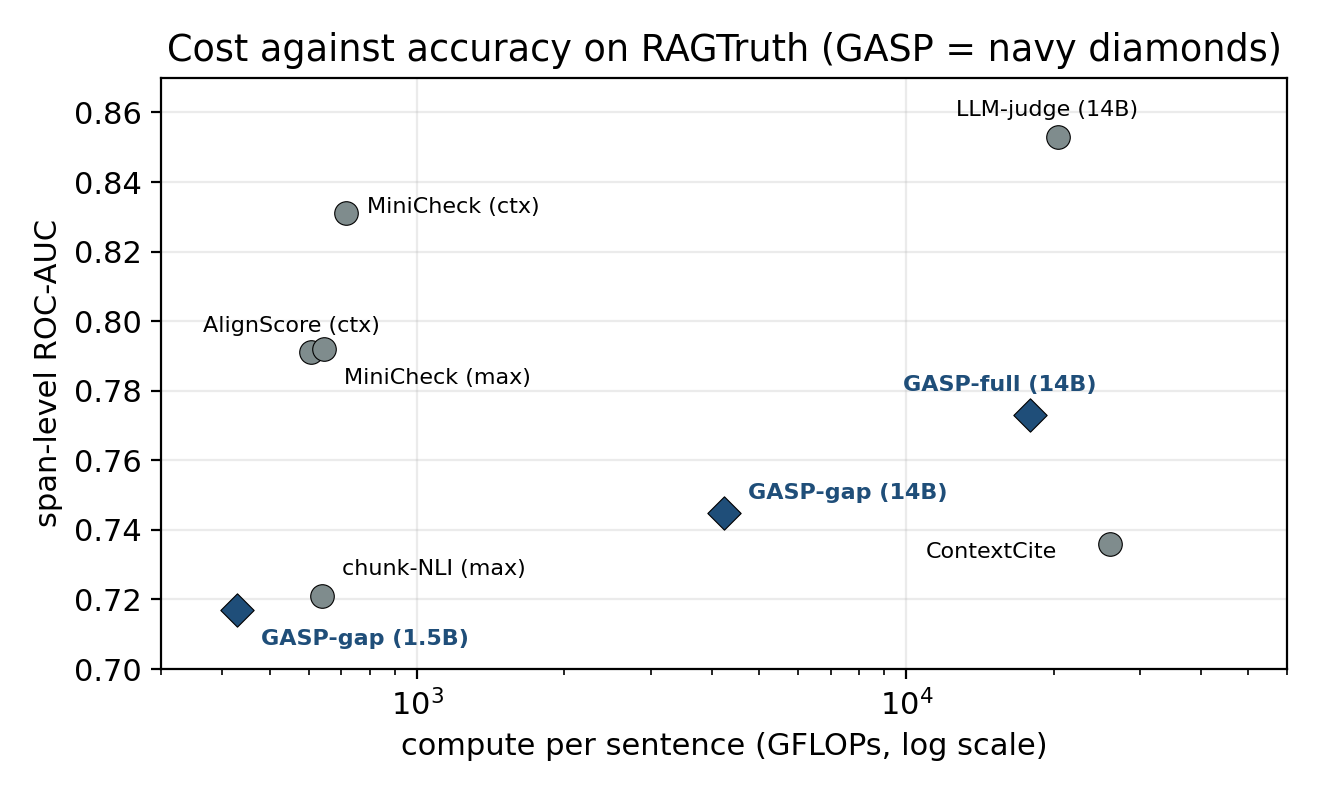
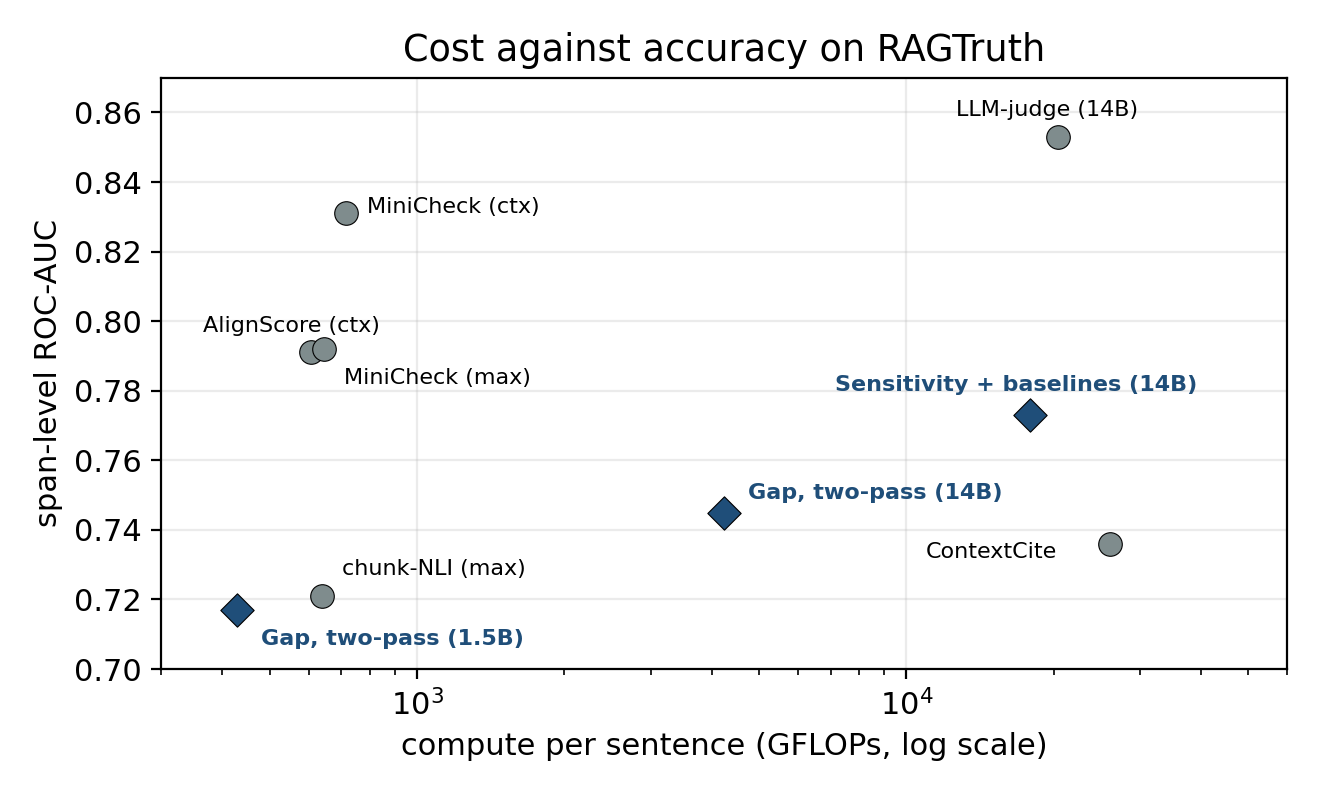
Use descriptive method labels in the cost and transfer figures

diff --git a/pipeline/make_paper_figures.py b/pipeline/make_paper_figures.py
@@ -5,7 +5,7 @@ Generate the paper figures into results/figures/.
 Four figures on RAGTruth with the 14B scorer:
   fig_feature_auc.png     single-feature span-level ROC-AUC of each grounding feature.
   fig_grounding_dist.png  distribution of the max leave-one-out drop, grounded vs unsupported.
-  fig_transfer.png        span-level GASP+base AUC across the three benchmarks.
+  fig_transfer.png        span-level AUC of Sensitivity + baselines across the three benchmarks.
   fig_cost_accuracy.png   compute (GFLOPs/sentence) vs span-level AUC per method.
 
 The distribution figure reads canon_results/<tag>/sentence.csv (produced by run_gasp.py);
@@ -29,18 +29,18 @@ plt.rcParams.update({"font.size": 11, "axes.grid": True, "grid.alpha": 0.25,
 FEATURES = [("gap", 0.745), ("top-2 drop", 0.711), ("max drop", 0.709), ("mean drop", 0.704),
             ("perplexity", 0.657), ("JSD no-ctx", 0.648), ("max JSD", 0.613)]
 GROUNDING = {"gap", "top-2 drop", "max drop", "mean drop", "JSD no-ctx", "max JSD"}
-# span-level GASP+base per benchmark
+# span-level AUC of Sensitivity + baselines per benchmark
 TRANSFER = [("RAGTruth", 0.773), ("TofuEval", 0.711), ("RAGBench", 0.634)]
-# (method, span-AUC, GFLOPs/sentence, is_gasp, label-dx-factor, label-dy)
+# (method, span-AUC, GFLOPs/sentence, is_sensitivity, label-dx-factor, label-dy)
 COST = [("chunk-NLI (max)", 0.721, 638, False, 1.10, +0.006),
         ("AlignScore (ctx)", 0.791, 608, False, 0.60, +0.006),
         ("MiniCheck (ctx)", 0.831, 717, False, 1.10, 0.0),
         ("MiniCheck (max)", 0.792, 645, False, 1.10, -0.010),
         ("LLM-judge (14B)", 0.853, 20376, False, 0.62, +0.006),
         ("ContextCite", 0.736, 26103, False, 0.42, -0.004),
-        ("GASP-gap (1.5B)", 0.717, 429, True, 1.12, -0.010),
-        ("GASP-gap (14B)", 0.745, 4236, True, 1.12, +0.004),
-        ("GASP-full (14B)", 0.773, 17897, True, 0.55, +0.007)]
+        ("Gap, two-pass (1.5B)", 0.717, 429, True, 1.12, -0.010),
+        ("Gap, two-pass (14B)", 0.745, 4236, True, 1.12, +0.004),
+        ("Sensitivity + baselines (14B)", 0.773, 17897, True, 0.40, +0.007)]
 
 
 def fig_feature_auc(out):
@@ -89,7 +89,7 @@ def fig_transfer(out):
         ax.text(xi, t[1] + 0.006, f"{t[1]:.3f}", ha="center", fontsize=10)
     ax.set_xticks(x); ax.set_xticklabels([t[0] for t in TRANSFER]); ax.set_ylim(0.5, 0.85)
     ax.axhline(0.5, color="k", lw=0.8, ls=":")
-    ax.set_ylabel("span-level ROC-AUC (GASP+base, 14B)")
+    ax.set_ylabel("span-level ROC-AUC\n(Sensitivity + baselines, 14B)")
     ax.set_title("Transfer across benchmarks")
     fig.tight_layout(); fig.savefig(os.path.join(out, "fig_transfer.png"), dpi=200); plt.close(fig)
 
@@ -104,7 +104,7 @@ def fig_cost_accuracy(out):
     ax.set_xscale("log"); ax.set_xlim(3e2, 6e4); ax.set_ylim(0.70, 0.87)
     ax.set_xlabel("compute per sentence (GFLOPs, log scale)")
     ax.set_ylabel("span-level ROC-AUC")
-    ax.set_title("Cost against accuracy on RAGTruth (GASP = navy diamonds)")
+    ax.set_title("Cost against accuracy on RAGTruth")
     fig.tight_layout(); fig.savefig(os.path.join(out, "fig_cost_accuracy.png"), dpi=200); plt.close(fig)
 
 
